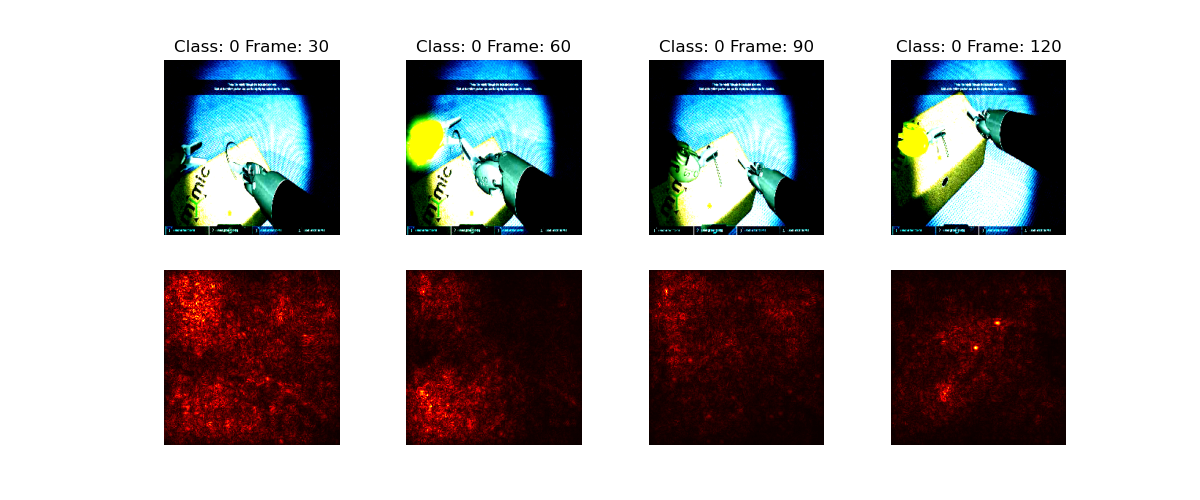
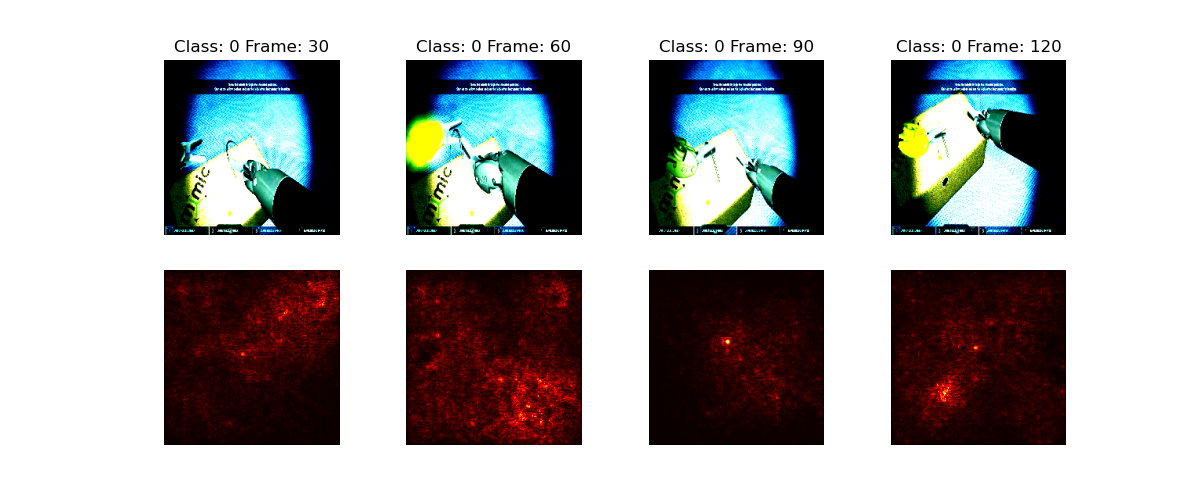
update

diff --git a/task1/models/two_stream/predict.py b/task1/models/two_stream/predict.py
@@ -46,16 +46,13 @@ def compute_saliency_maps(X, y, model):
     # Forward pass
     scores = model(X)[0]
     scores = torch.squeeze(scores, 1)
-    print(scores.shape)
     y = torch.tensor([y]*len(scores))
     scores = scores.gather(1, y.view(-1, 1)).squeeze()
-    print("Score of the label classification for each frame: ", scores)
     scores.backward(torch.ones(scores.size()))
     saliency = X.grad
     saliency = saliency.abs()
     saliency, _= torch.max(saliency, dim=4)
     saliency = torch.squeeze(saliency)
-    print("Saliency shape: ", saliency.shape)
     
     return saliency
 
@@ -67,10 +64,10 @@ def show_saliency_maps(args):
     model.eval()
     loader = model.val_dataloader()
     dataiter = iter(loader)
-    for idx in range(1):
+    for idx in range(165, 265, 20):
         batch = dataiter.next()
+        print(batch[1])
         X_tensor, y_tensor = model.apply_transforms_GPU(batch, random_crop=model.hparams.random_crop, normalize=True)
-        print(np.array_equal(X_tensor[0][0], X_tensor[0][-1]))
         # Compute saliency maps for images in X
         saliency = compute_saliency_maps(X_tensor, y_tensor, model)
         
@@ -91,7 +88,7 @@ def show_saliency_maps(args):
             plt.gcf().set_size_inches(12, 5)
         #plt.show()
         #to view images on ssh, use eog saliency.png
-        plt.savefig(f"saliency_figures/rgb{idx}.png")
+        #plt.savefig(f"saliency_figures/rgb{idx}.png")
 
 def predict(args):
     model = classifier.FusionModel.load_from_checkpoint(checkpoint_path=args.checkpoint_path, hparams_file=args.hparams_path)
@@ -113,7 +110,8 @@ if __name__ == '__main__':
     parser = argparse.ArgumentParser()
     # Input argument
     parser.add_argument('--input_file', default=f'{homedir}/task1/models/two_stream/test/test1.mp4', help='Input file to predict')
-    parser.add_argument('--checkpoint_path', default=f'{settings1.checkpoints}/two_stream/AC_CE_EF_FG/_ckpt_epoch_46.ckpt', help='path to load checkpoints')
+    parser.add_argument('--checkpoint_path', default=f'{settings1.checkpoints}/two_stream/AC_CE_EF_FG/_ckpt_epoch_34.ckpt')
+    #parser.add_argument('--checkpoint_path', default=f'{settings1.checkpoints}/two_stream/AC_CE_EF_FG/_ckpt_epoch_46.ckpt', help='path to load checkpoints')
     parser.add_argument('--hparams_path', default=f'{homedir}/task1/models/two_stream/test/hparams.yaml', help='path to load hyperparameters')
     args = parser.parse_args()
     #predict(args)
